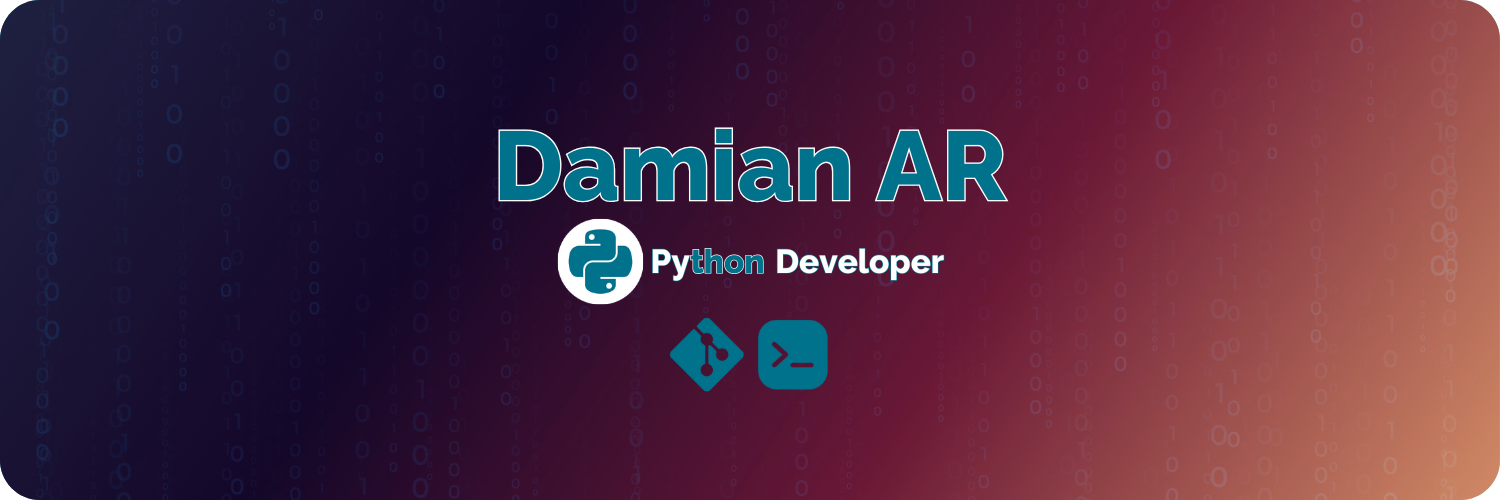
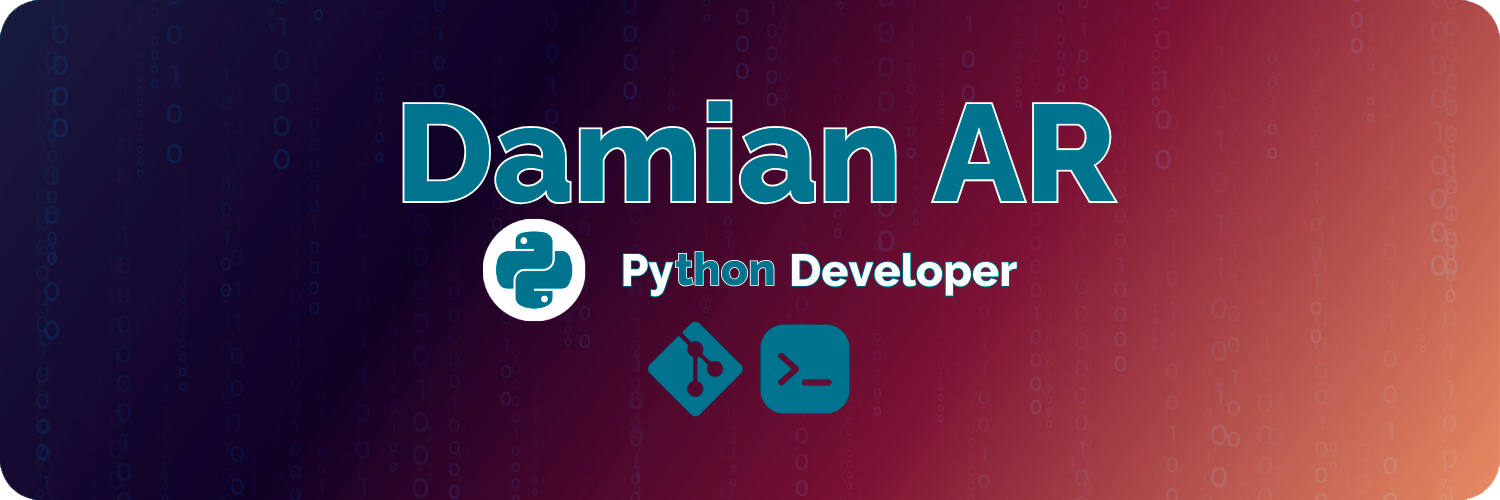
Updating information and style

Changed region(s): [[0.2453, 0.18, 0.7667, 0.66], [0.4293, 0.63, 0.5827, 0.84]]

diff --git a/README.md b/README.md
@@ -6,28 +6,25 @@
 
 Hello, my name is Damián AR. I've been passionate about technology since I was very young and curious about how things work behind the screen. Today, I focus on creating software to provide solutions to people's problems.
 
-<br>
-
-### About me 🙋♂
+### 🙋♂ About me
 
 - Currently studying programming at Conquer Blocks Academy
 - Passionate about Linux and open-source software
 - Terminal enthusiast
 - Current GNU/Linux distros: Ubuntu and Pop_OS
 
-<br>
+### 💥 Featured projects
+- **Text to voice app** - https://shorturl.at/4y0mQ
+- *New one is comming*
 
-### Current stack 🔧
+### 🔧 Current stack
   
 [![Python](https://img.shields.io/badge/Python-306998?style=for-the-badge&logo=python&logoColor=white&labelColor=101010)]() [![Html](https://img.shields.io/badge/HTML-white?style=for-the-badge&logo=html5&logoColor=white&labelColor=black&color=%23E34F26)]() [![Css](https://img.shields.io/badge/css-white?style=for-the-badge&logo=css3&logoColor=white&labelColor=black&color=blue)]()  [![Git](https://img.shields.io/badge/Git-yellow?style=for-the-badge&logo=git&logoColor=white&labelColor=101010)]()
 
-### Contact me ✉
+### ✉ Contact me
 [![Email](https://img.shields.io/badge/professional%20e--mail-white?style=for-the-badge&logo=gmail&logoColor=white&label=damitech%40tutamail.com&labelColor=black&color=%23EA4335)](mailto:dami@tutamail.com)
 
 <br>
-
-<br>
-
 
 # 🇪🇸 Hola👋 soy Damián AR😃
 
@@ -37,21 +34,21 @@ Hello, my name is Damián AR. I've been passionate about technology since I was 
 
 Hola, mi nombre es Damián AR. Soy un apasionado de la tecnología desde muy pequeño y de entender cómo funciona lo que vemos a través de la pantalla. Hoy me dedico a crear software para dar una solución a los problemas de la gente.
 
-<br>
-
-### Sobre mí 🙋♂
+### 🙋♂ Sobre mí
   - Actualmente estudiando programación en la Academia Conquer Blocks
   - Apasionado de Linux y el software de código abierto
   - Amante de la terminal
   - Distro actual GNU/Linux: Ubuntu y Pop_us
+  
+### 💥 Proyectos destacados
+  - **Text to voice app** - https://shorturl.at/4y0mQ
+  - *Proyecto en construcción*
 
-<br>
-
-  ### Stack actual 🔧 
+### 🔧 Stack actual
   
   [![Python](https://img.shields.io/badge/Python-306998?style=for-the-badge&logo=python&logoColor=white&labelColor=101010)]() [![Html](https://img.shields.io/badge/HTML-white?style=for-the-badge&logo=html5&logoColor=white&labelColor=black&color=%23E34F26)]() [![Css](https://img.shields.io/badge/css-white?style=for-the-badge&logo=css3&logoColor=white&labelColor=black&color=blue)]()  [![Git](https://img.shields.io/badge/Git-yellow?style=for-the-badge&logo=git&logoColor=white&labelColor=101010)]()
 
-### Contáctame✉
+### ✉ Contáctame
 [![Email](https://img.shields.io/badge/Email%20profesional-white?style=for-the-badge&logo=gmail&logoColor=white&label=damitech%40tutamail.com&labelColor=black&color=%23EA4335)](mailto:dami@tutamail.com)
 
 
